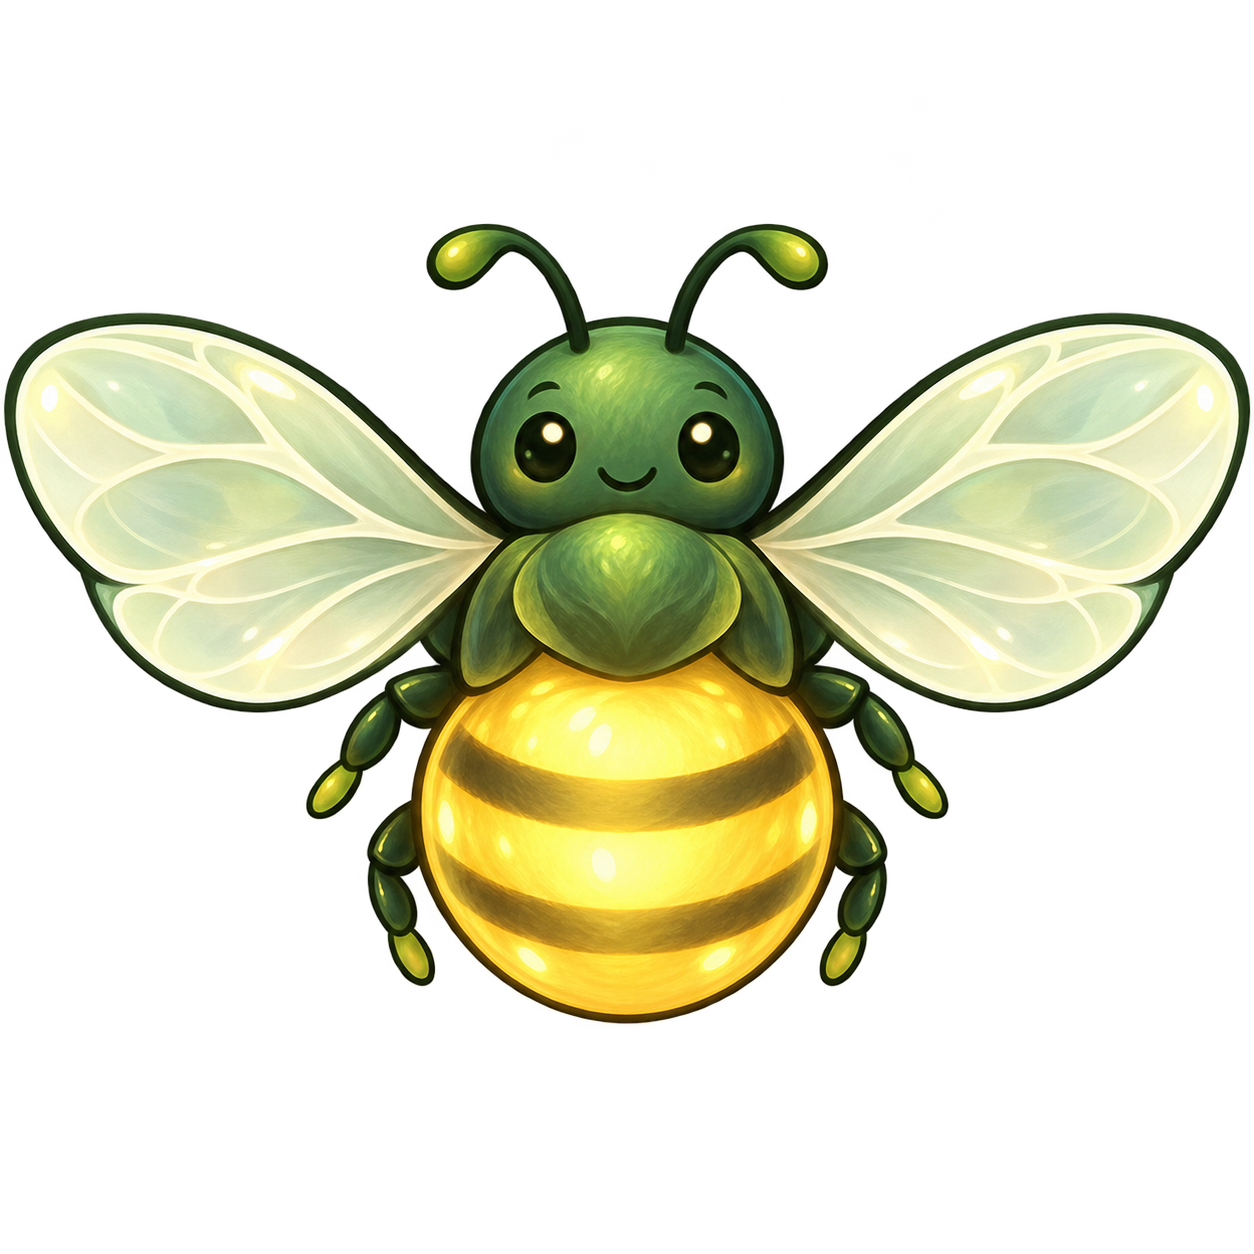
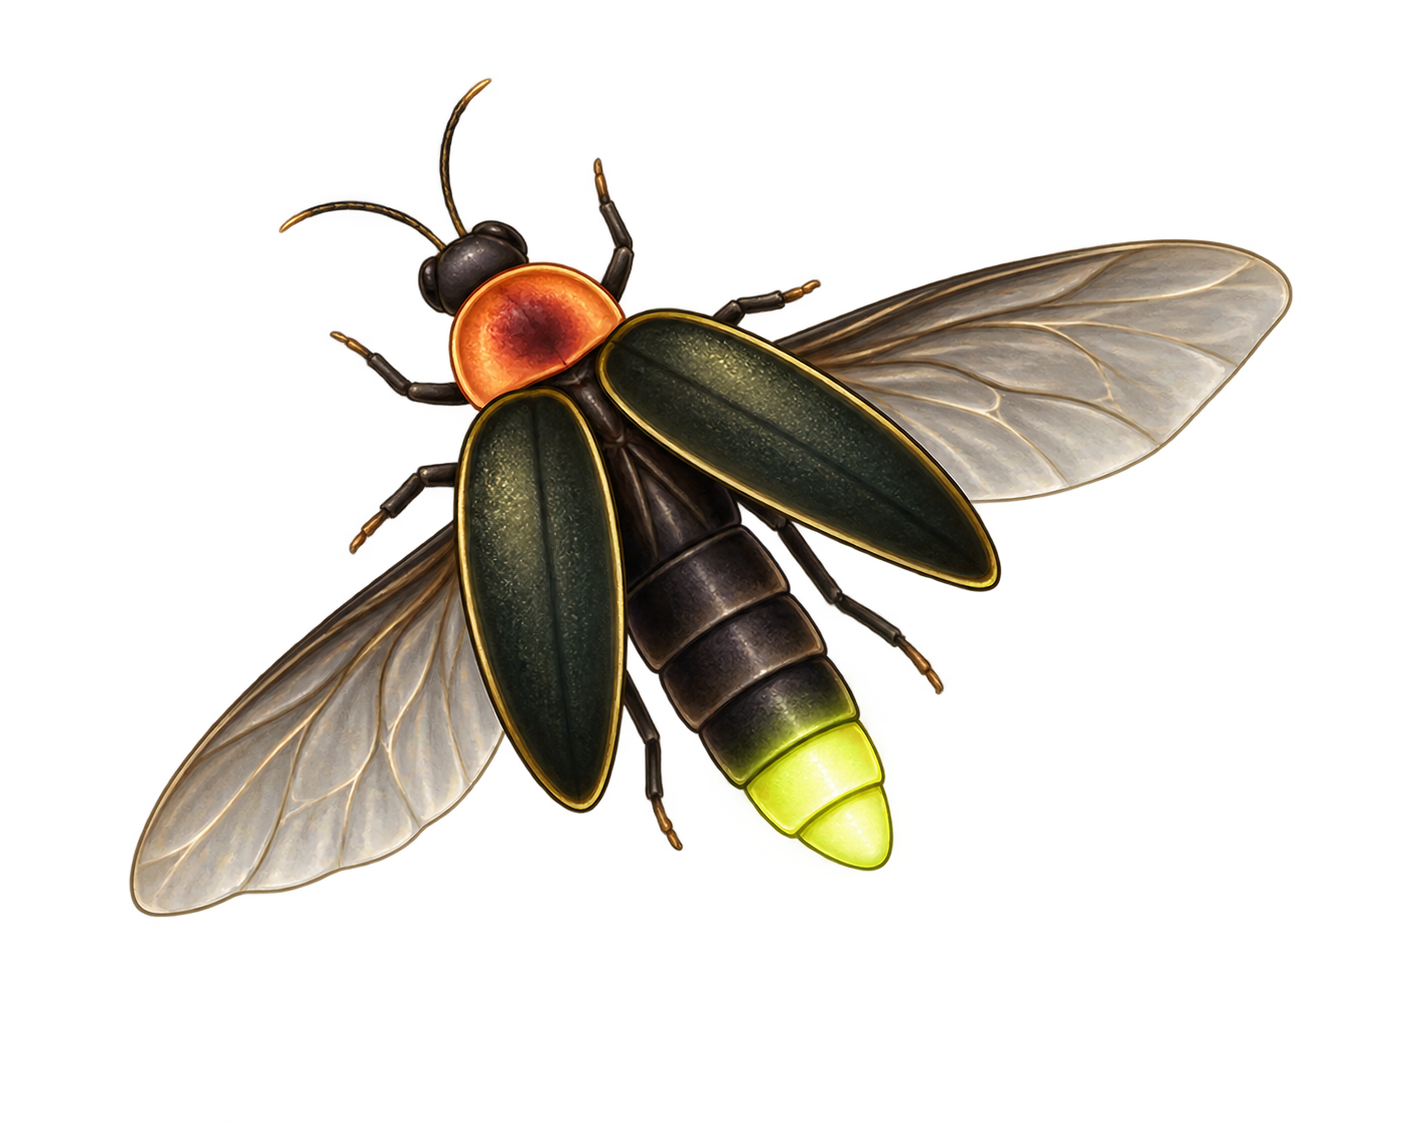
Redesign raster sprite as a dark firefly with a luminous tail

diff --git a/web/index.html b/web/index.html
@@ -1,5 +1,5 @@
 <!doctype html>
-<html lang="en"><head><meta charset="utf-8"><meta name="viewport" content="width=device-width,initial-scale=1,viewport-fit=cover"><meta name="theme-color" content="#f7f8f2"><meta name="description" content="A little logic. A little light. A peaceful firefly puzzle for your phone."><title>Firefly Grove · A little logic, a little light</title><link rel="manifest" href="manifest.webmanifest"><link rel="preload" as="image" href="./assets/firefly.png"><link rel="icon" href="icon.svg" type="image/svg+xml"><link rel="stylesheet" href="style.css"></head>
+<html lang="en"><head><meta charset="utf-8"><meta name="viewport" content="width=device-width,initial-scale=1,viewport-fit=cover"><meta name="theme-color" content="#f7f8f2"><meta name="description" content="A little logic. A little light. A peaceful firefly puzzle for your phone."><title>Firefly Grove · A little logic, a little light</title><link rel="manifest" href="manifest.webmanifest"><link rel="preload" as="image" href="./assets/firefly.png?v=2"><link rel="icon" href="icon.svg" type="image/svg+xml"><link rel="stylesheet" href="style.css"></head>
 <body><div class="app-shell">
 <section id="landing-screen" aria-label="Firefly Grove home">
 <header class="topbar"><div class="brand"><span class="brand-icon">✦</span><span>firefly<span class="brand-light">grove</span></span></div><div class="top-actions"><button class="icon-button" id="help" aria-label="How to play">?</button><button class="icon-button" id="settings" aria-label="Settings">⚙</button></div></header>

diff --git a/web/app.js b/web/app.js
@@ -11,7 +11,7 @@ const STORAGE = 'firefly-grove-v1';
 const DOUBLE_TAP_MS = 600;
 const CARE_PACKAGE_LEVELS = 10;
 const palette = ['#d9e5ba','#e6c2a9','#c6dcd6','#e7d9a4','#cfc9e2','#b8d4ac','#e4c7ce','#bfcde0','#e3c49a','#c1dfc2','#d7d3ac','#c9bee0','#dbbcae','#b8d9dd'];
-const fly = '<span class="firefly-arrival"><img class="firefly-sprite" src="./assets/firefly.png" alt="" aria-hidden="true" draggable="false" width="1254" height="1254" decoding="async"></span>';
+const fly = '<span class="firefly-arrival"><img class="firefly-sprite" src="./assets/firefly.png?v=2" alt="" aria-hidden="true" draggable="false" width="1402" height="1122" decoding="async"></span>';
 const cross = '<svg class="cross-mark" viewBox="0 0 32 32" aria-hidden="true" fill="none" stroke-linecap="round"><g stroke="#fffdec" stroke-width="6"><path class="cross-line" pathLength="1" d="M8 8 24 24"/><path class="cross-line cross-second" pathLength="1" d="M24 8 8 24"/></g><g stroke="#234536" stroke-width="3.5"><path class="cross-line" pathLength="1" d="M8 8 24 24"/><path class="cross-line cross-second" pathLength="1" d="M24 8 8 24"/></g></svg>';
 const defaults = () => ({ version:1, installSeed:crypto.getRandomValues(new Uint32Array(1))[0], level:1, completed:0, hints:3, reveals:2, game:null, settings:{ autoCross:false, haptics:true } });
 let state;

diff --git a/web/sw.js b/web/sw.js
@@ -1,4 +1,4 @@
-const CACHE='firefly-grove-v22';
-self.addEventListener('install',e=>{e.waitUntil(caches.open(CACHE).then(c=>c.addAll(['./','./index.html','./style.css','./app.js','./hint-overlay.js','./hearts.js','./profile.js','./dialogs.js','./generator-protocol.js','./engine.js','./daily.js','./leaderboard-client.js','./leaderboard-config.js','./gestures.js','./generator-worker.js','./assets/firefly.png','./icon.svg','./manifest.webmanifest'])));self.skipWaiting();});
+const CACHE='firefly-grove-v23';
+self.addEventListener('install',e=>{e.waitUntil(caches.open(CACHE).then(c=>c.addAll(['./','./index.html','./style.css','./app.js','./hint-overlay.js','./hearts.js','./profile.js','./dialogs.js','./generator-protocol.js','./engine.js','./daily.js','./leaderboard-client.js','./leaderboard-config.js','./gestures.js','./generator-worker.js','./assets/firefly.png?v=2','./icon.svg','./manifest.webmanifest'])));self.skipWaiting();});
 self.addEventListener('activate',e=>e.waitUntil(caches.keys().then(keys=>Promise.all(keys.filter(k=>k.startsWith('firefly-grove-')&&k!==CACHE).map(k=>caches.delete(k)))).then(()=>self.clients.claim())));
 self.addEventListener('fetch',e=>{if(e.request.method==='GET'&&new URL(e.request.url).origin===self.location.origin)e.respondWith(fetch(e.request).catch(()=>caches.match(e.request)));});

diff --git a/docs/FIREFLY_ART.md b/docs/FIREFLY_ART.md
@@ -1,13 +1,11 @@
 # Raster firefly artwork
 
-The board uses `web/assets/firefly.png`: a 1254 × 1254 transparent RGBA PNG generated with the built-in `image_gen` tool. It replaces the inline SVG firefly, including in hint previews. The original generated PNG is preserved without retouching or conversion. Found, bobbing, wiggling, fluttering, and lantern-glow motions animate the raster image in CSS. Reduced-motion mode and hint previews remain static.
-
-The image is preloaded, shared by every revealed cell, included in the offline cache, and packaged inside the APK/AAB. It is decorative; the existing cell labels announce found fireflies. Images cannot intercept taps or start native image dragging.
+The board and hint previews use web/assets/firefly.png: a 1402 × 1122 transparent RGBA PNG generated with the built-in image_gen tool. This second design replaces the bee-like striped sprite with a dark lightning beetle, orange shield, open wing covers, delicate wings, and a luminous tail. The generated PNG is preserved without retouching or conversion. Found and idle motions animate the PNG in CSS; reduced-motion mode and hint previews remain static. The image is preloaded, cached offline, decorative to screen readers, and cannot intercept taps or start native dragging.
 
 ## Generation prompt
 
 Transparent background was enabled. Exact final prompt:
 
-> Create one production-ready transparent PNG raster game sprite for Firefly Grove, a gentle mobile puzzle game. A friendly cute firefly viewed from above, compact and round, broad silhouette slightly wider than tall. It MUST read as a winged insect at 24–40 pixels: small distinct forest-green round head with two short curved antennae and friendly dot eyes, two very broad translucent ivory/soft-mint wings spread diagonally sideways like open leaf shapes, short round golden glowing abdomen with two subtle dark horizontal insect stripes, and tiny outward-pointing legs. Clearly separated head, thorax, and ROUND abdomen, no elongated vertical body or cylindrical silhouette. Hand-painted polished 2D casual-game illustration with clean dark forest-green contours, softly shaded sage green and buttery yellow, simple chunky shapes and restrained details. Entire insect centered, symmetric overall, occupies about 85% of square canvas, generous clean transparent padding. No background, no floor, no drop shadow outside subject, no scene, no flowers, no text, no border, no sprite sheet. True alpha transparency, a SINGLE complete firefly, crisp and charming, NOT photorealistic, NOT a vector/SVG.
+> Create ONE transparent PNG raster sprite for a mobile puzzle game, unmistakably a FIREFLY / LIGHTNING BUG beetle, NOT a bee, wasp, butterfly, or bumblebee. View from ABOVE, body on a gentle diagonal from upper left to lower right, broad compact composition. Anatomy: small dark charcoal head with two short delicate antennae, a reddish warm-orange small shield/pronotum behind the head, TWO dark forest-green almost black beetle wing covers open in a V to the sides; two fine translucent smoky ivory flying wings extended to the sides; short compact FLAT dark abdomen tapering slightly, with ONLY its last TWO tail segments glowing pale lime-yellow. The glowing tail should occupy only the final quarter of the body, clearly separate from the dark body. NO yellow belly, NO alternating black/yellow stripes, NO fluffy round bee abdomen, NO bulbous vertical cylindrical silhouette, NO human-like smiling face, NO huge eyes. Tiny outward legs make it clearly a beetle. Friendly polished hand-painted 2D casual-game illustration, restrained sage/charcoal/soft amber palette, bold readable silhouettes at 24–40 pixels, fine details kept minimal. The wing spread should make the overall silhouette wider than the body length. Keep the entire insect safely inside the canvas with transparent padding on every edge. Single complete sprite, genuinely transparent background, no scene, no ground, no text, no frame, no sprite sheet, no cast shadow. The subject must visually read as a dark lightning bug with a small luminous tail rather than a bee.
 
[1 lines of base64/hex data omitted]
+SHA-256: b20620e973fd25fde326d372fbf0b1398067cc3c8fc34b900c4e455d16bdaf3f.

diff --git a/README.md b/README.md
@@ -101,4 +101,4 @@ API additions: `GET /api/v1/hearts?day=YYYY-MM-DD` and authenticated `POST /api/
 
 ## Raster fireflies
 
-The board and hint previews use a transparent PNG firefly with a round striped lantern body, a distinct face, and broad wings. Found and random idle animations animate the raster sprite, with reduced-motion and static-hint behavior preserved. The asset is preloaded and cached offline. See [artwork and generation prompt](docs/FIREFLY_ART.md).
+The board and hint previews use a transparent PNG firefly with dark beetle wing covers, an orange thoracic shield, fine flying wings, and a small glowing tail. Found and random idle animations animate the raster sprite, with reduced-motion and static-hint behavior preserved. The asset is preloaded and cached offline. See [artwork and generation prompt](docs/FIREFLY_ART.md).
